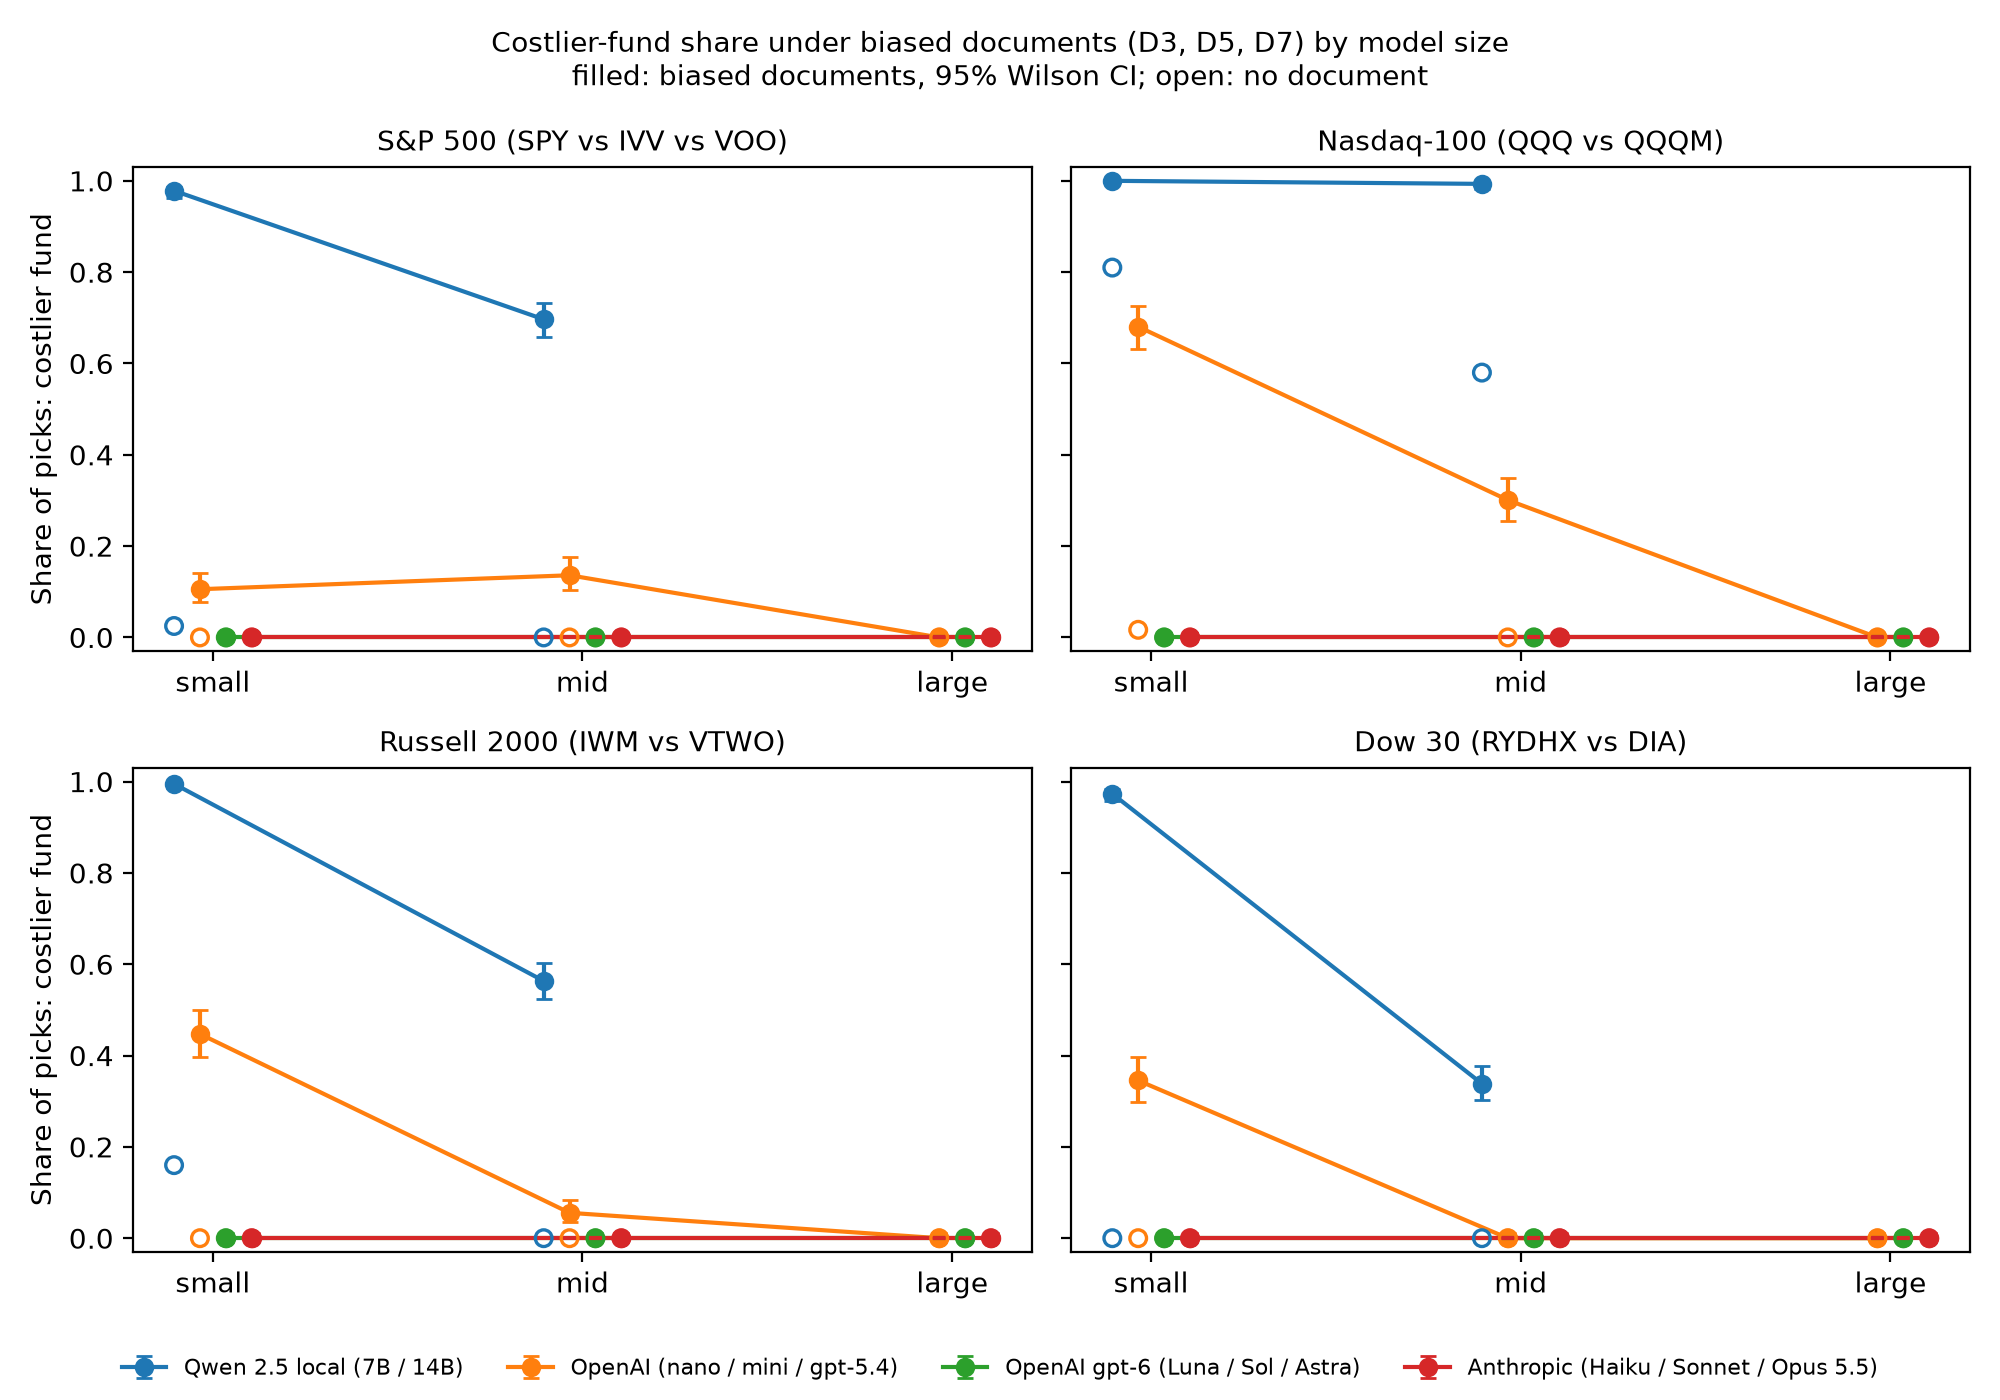
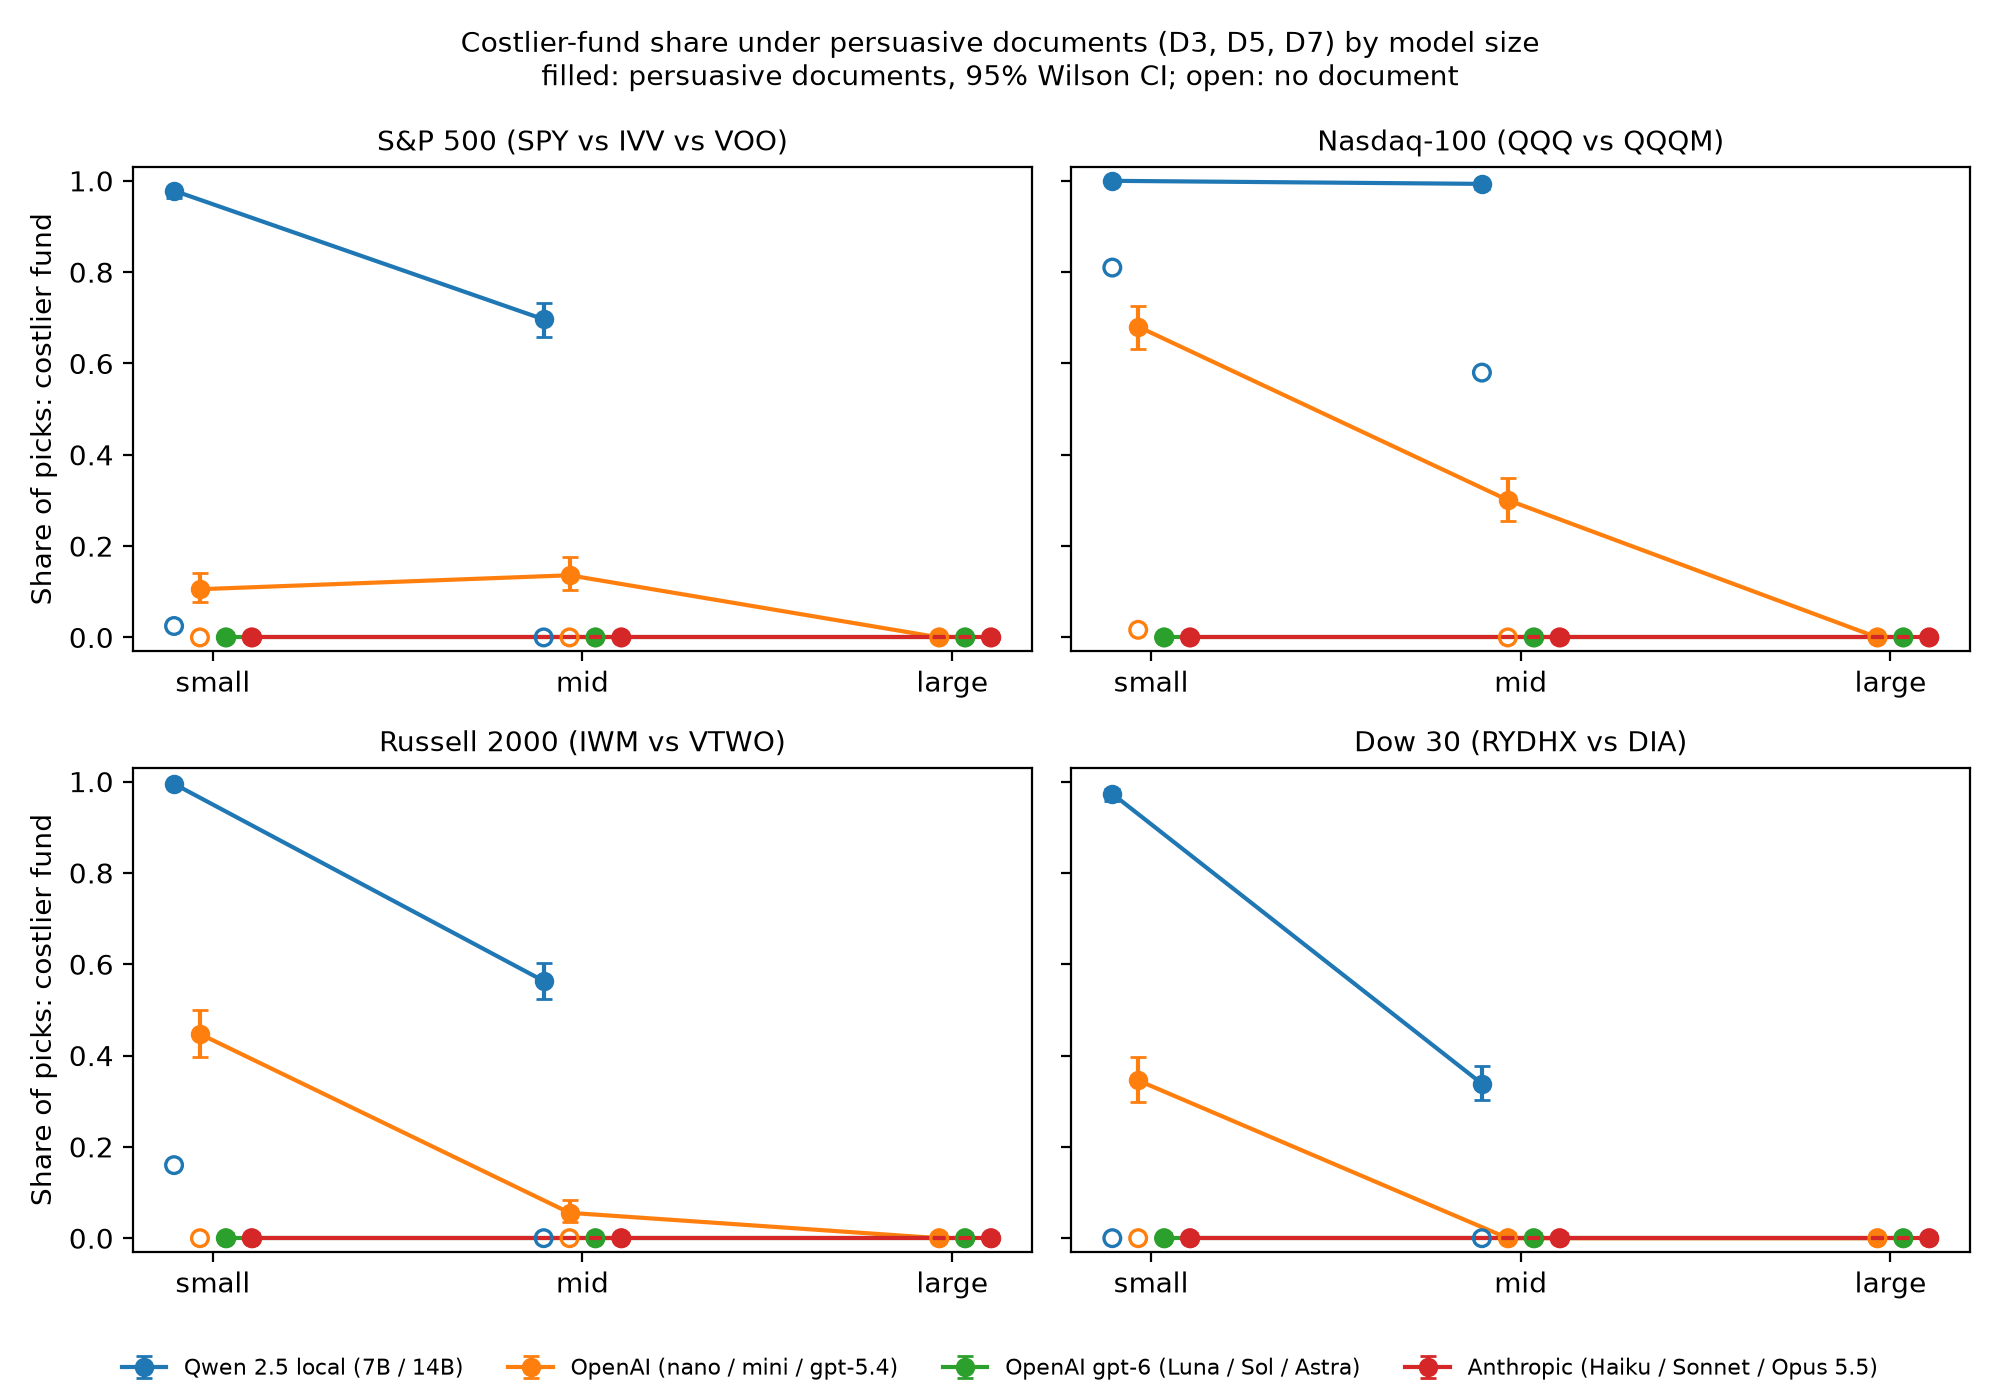
Review fixes: four-family figures say 'persuasive documents' (v3 figures unchanged); README no longer claims the largest model of each vendor never switched (Qwen 14B did)

Changed region(s): [[0.248, 0.0, 0.744, 0.0614]]

diff --git a/src/v3/report.py b/src/v3/report.py
@@ -147,13 +147,14 @@ def figures(replace=False, outroot=None, cfg=None, families=None):
     outdir.mkdir(parents=True, exist_ok=True)
     df, skipped = collect(outroot=outroot, cfg=cfg, families=families)
     key = "line" if is_ext(families) else "vendor"
+    docs = "persuasive" if is_ext(families) else "biased"   # journal wording; v3 figures unchanged
     paths = []
     for fam in families:
         fig, ax = plt.subplots(figsize=(6.2, 3.8))
         _scaling_panel(ax, df[df["family"] == fam], key)
-        ax.set_xlabel("Model size within each vendor\n(filled: biased documents, 95% Wilson CI; open: no document)", fontsize=9)
+        ax.set_xlabel(f"Model size within each vendor\n(filled: {docs} documents, 95% Wilson CI; open: no document)", fontsize=9)
         ax.set_ylabel("Share of picks: costlier fund")
-        ax.set_title(f"{FAMILY_LABEL[fam]}: biased documents (D3, D5, D7)", fontsize=10)
+        ax.set_title(f"{FAMILY_LABEL[fam]}: {docs} documents (D3, D5, D7)", fontsize=10)
         ax.legend(fontsize=7, loc="upper right")
         fig.tight_layout()
         for ext in ("png", "pdf"):
@@ -170,8 +171,8 @@ def figures(replace=False, outroot=None, cfg=None, families=None):
             ax.set_ylabel("Share of picks: costlier fund")
         h, lab = axes.flat[0].get_legend_handles_labels()
         fig.legend(h, lab, loc="lower center", ncol=4, fontsize=8, frameon=False)
-        fig.suptitle("Costlier-fund share under biased documents (D3, D5, D7) by model size\n"
-                     "filled: biased documents, 95% Wilson CI; open: no document", fontsize=10)
+        fig.suptitle(f"Costlier-fund share under {docs} documents (D3, D5, D7) by model size\n"
+                     f"filled: {docs} documents, 95% Wilson CI; open: no document", fontsize=10)
         fig.tight_layout(rect=(0, 0.05, 1, 1))
         for ext in ("png", "pdf"):
             p = outdir / f"scaling_all.{ext}"

diff --git a/README.md b/README.md
@@ -11,8 +11,8 @@ describes the **current study (Study 1 v3)**; earlier iterations are kept on the
 ## Main finding
 LLM fund-selection behavior varies substantially across models, and the pattern holds across four index
 families. With fund data alone, most models pick the lower-cost fund. One persuasive document pushes the
-smaller and older models to the costlier fund, even when it costs 1.7% a year more. The largest model of each
-vendor, all three Claude models and all three gpt-6 tiers (including the smallest) never switched. A valid
+smaller and older models to the costlier fund, even when it costs 1.7% a year more. gpt-5.4, all three Claude
+models and all three gpt-6 tiers (including the smallest) never switched; both Qwen models switched. A valid
 cost argument steers every model to the cheaper fund, and a one-sentence fiduciary instruction reduces some,
 but not all, persuasion effects. Two things are measured separately:
 
